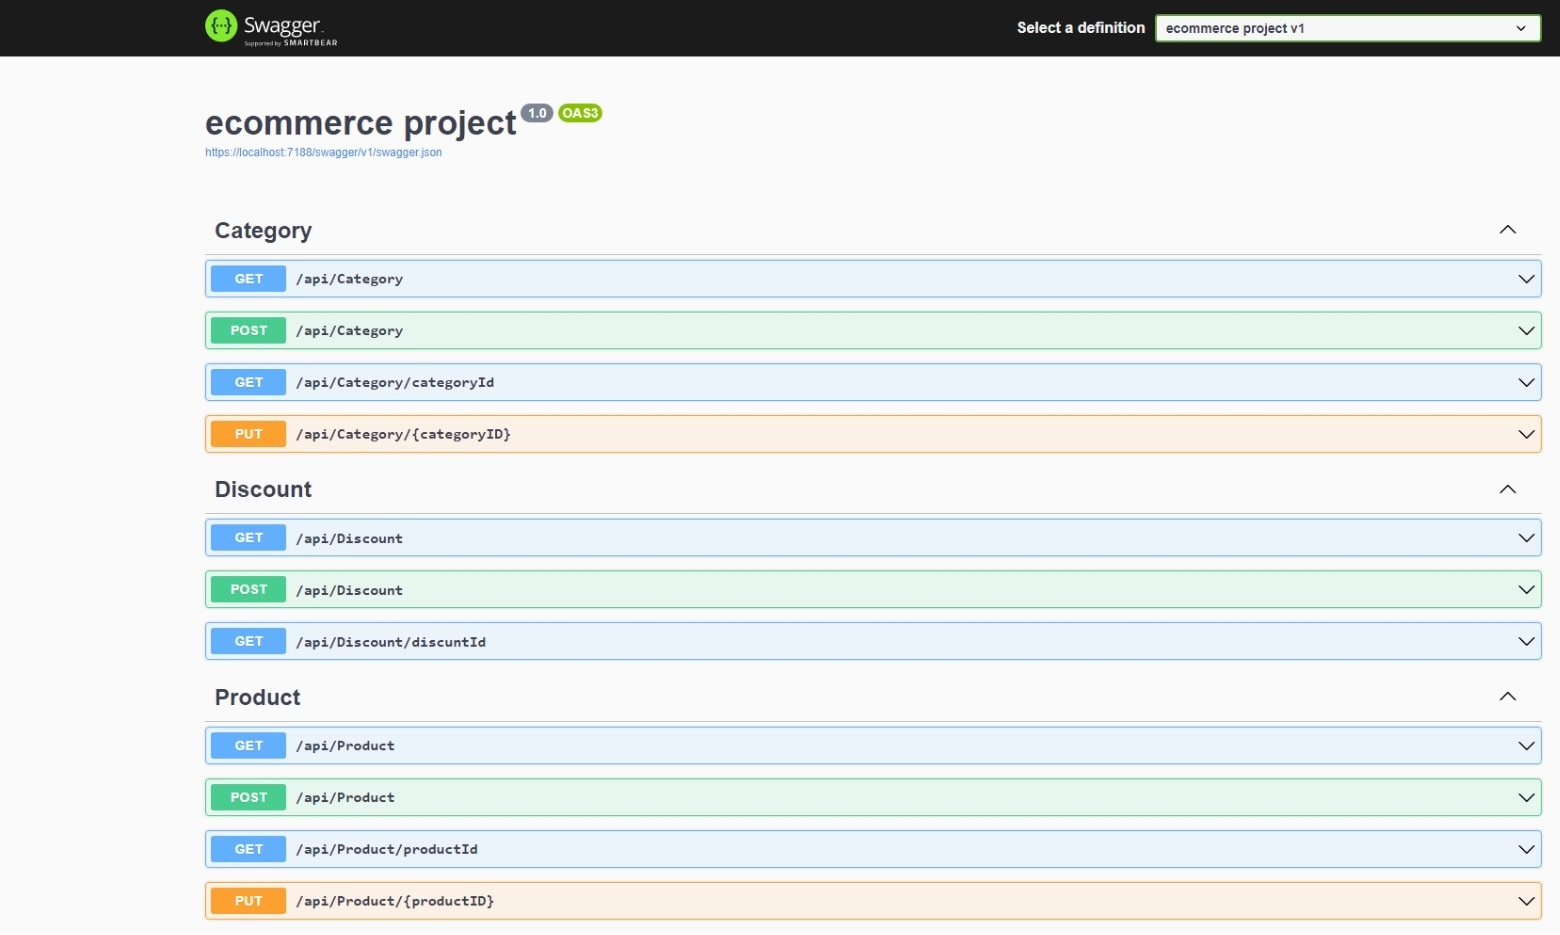
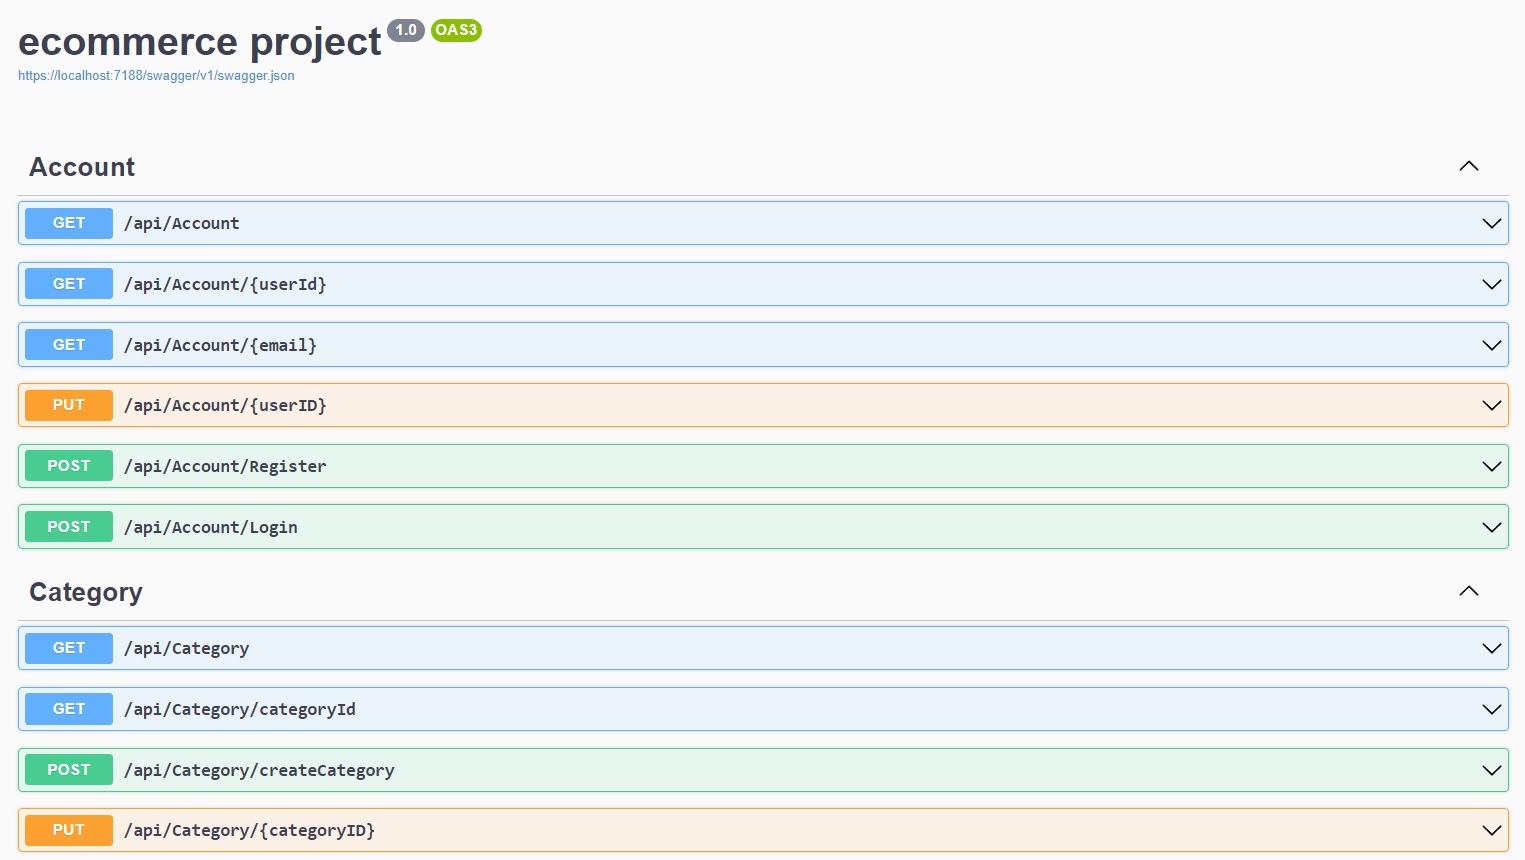
clean up the program.cs and exchange the image to new one

Changed region(s): [[0.0, 0.1814, 1.0, 0.9977], [0.0, 0.0, 1.0, 0.0907], [0.1233, 0.0907, 0.4007, 0.1814]]

diff --git a/ecommerce project/Program.cs b/ecommerce project/Program.cs
@@ -1,98 +1,17 @@
-using ecommerce_project.Data;
-using ecommerce_project.Interface;
-using ecommerce_project.Repository;
-using Microsoft.AspNetCore.Mvc;
-using Microsoft.AspNetCore.Mvc.Infrastructure;
-using Microsoft.EntityFrameworkCore;
-using System.Reflection;
+using ecommerce_project.Startup;
 
 var builder = WebApplication.CreateBuilder(args);
 
-// Add services to the container.
+builder.Services.AddControllersConfig()
+                 .RegisterScoped()
+                 .RegisterMapper()
+                 .RegisterServices();
 
-builder.Services.AddControllers()
-    .AddXmlDataContractSerializerFormatters()
-    // To castumaize the ModelState and add some info
-    .ConfigureApiBehaviorOptions(setupAction =>
-    {
-        // It will execute when the ModelState invalid
-        setupAction.InvalidModelStateResponseFactory = context =>
-        {
-            //create a valisation problem details object
-            ProblemDetailsFactory problemDetailsFactory = context.HttpContext.RequestServices
-            .GetRequiredService<ProblemDetailsFactory>();
-
-            var VaildationProblemDetails = problemDetailsFactory
-            .CreateValidationProblemDetails(
-                context.HttpContext,
-                context.ModelState);
-
-            // add additional info not added by default
-            VaildationProblemDetails.Detail = "See the errors field for details.";
-            VaildationProblemDetails.Instance = context.HttpContext.Request.Path;
-
-            // report invalid model state responses as vaildation issues
-            VaildationProblemDetails.Type = "VaildationProblemDetails";
-            VaildationProblemDetails.Status = StatusCodes.Status422UnprocessableEntity;
-            VaildationProblemDetails.Title = "One or more validation errors occurred";
-
-            return new UnprocessableEntityObjectResult(
-                VaildationProblemDetails)
-            {
-                ContentTypes = { "application/problem+json" }
-            };
-        };
-    });
-builder.Services.AddScoped<IAccount, AccountRepository>();
-builder.Services.AddScoped<IProduct, ProductRepository>();
-builder.Services.AddScoped<ICategory, CategoryRepository>();
-builder.Services.AddScoped<IDiscount, DiscountRepository>();
-// Learn more about configuring Swagger/OpenAPI at https://aka.ms/aspnetcore/swashbuckle
-
-builder.Services.AddAutoMapper(AppDomain.CurrentDomain.GetAssemblies());
-
-builder.Services.AddEndpointsApiExplorer();
-
-builder.Services.AddSwaggerGen(setupAction =>
-{
-    var xmlCommentsFile = $"{Assembly.GetExecutingAssembly().GetName().Name}.xml";
-    var xmlCommentsFullPath = Path.Combine(AppContext.BaseDirectory, xmlCommentsFile);
-
-    setupAction.IncludeXmlComments(xmlCommentsFullPath);
-
-    //setupAction.AddSecurityDefinition("ecommrceAuth", new OpenApiSecurityScheme()
-    //{
-    //    Type = SecuritySchemeType.Http,
-    //    Scheme = "Bearer",
-    //    Description = "Input a valid token to access this api"
-    //});
-
-    //setupAction.AddSecurityRequirement(new OpenApiSecurityRequirement
-    //{
-    //    {
-    //    new OpenApiSecurityScheme
-    //    {
-    //        Reference = new OpenApiReference
-    //        {
-    //            Type = ReferenceType.SecurityScheme,
-    //            Id = "ecommrceAuth"}
-    //    },new List<string>() }
-    //});
-});
-
-builder.Services.AddDbContext<DatabaseContext>(optoins =>
-{
-    optoins.UseSqlServer(builder.Configuration.GetConnectionString("DefaultConnction"));
-});
+builder.Services.AddDBContext(builder.Configuration);
 
 var app = builder.Build();
 
-// Configure the HTTP request pipeline.
-if (app.Environment.IsDevelopment())
-{
-    app.UseSwagger();
-    app.UseSwaggerUI();
-}
+app.ConfigurSwagger();
 
 app.UseHttpsRedirection();
 

diff --git a/ecommerce project/Startup/DependencyInjectionSetup.cs b/ecommerce project/Startup/DependencyInjectionSetup.cs
@@ -1,0 +1,100 @@
+namespace ecommerce_project.Startup;
+
+using ecommerce_project.Interface;
+using ecommerce_project.Repository;
+using Microsoft.AspNetCore.Mvc;
+using Microsoft.AspNetCore.Mvc.Infrastructure;
+using System.Reflection;
+
+public static class DependencyInjectionSetup
+{
+    public static IServiceCollection RegisterServices(this IServiceCollection services)
+    {
+
+        services.AddEndpointsApiExplorer();
+
+        services.AddSwaggerGen(setupAction =>
+        {
+            var xmlCommentsFile = $"{Assembly.GetExecutingAssembly().GetName().Name}.xml";
+            var xmlCommentsFullPath = Path.Combine(AppContext.BaseDirectory, xmlCommentsFile);
+
+            setupAction.IncludeXmlComments(xmlCommentsFullPath);
+
+            //setupAction.AddSecurityDefinition("ecommrceAuth", new OpenApiSecurityScheme()
+            //{
+            //    Type = SecuritySchemeType.Http,
+            //    Scheme = "Bearer",
+            //    Description = "Input a valid token to access this api"
+            //});
+
+            //setupAction.AddSecurityRequirement(new OpenApiSecurityRequirement
+            //{
+            //    {
+            //    new OpenApiSecurityScheme
+            //    {
+            //        Reference = new OpenApiReference
+            //        {
+            //            Type = ReferenceType.SecurityScheme,
+            //            Id = "ecommrceAuth"}
+            //    },new List<string>() }
+            //});
+        });
+        return services;
+    }
+    public static IServiceCollection RegisterScoped(this IServiceCollection services)
+    {
+
+        services.AddScoped<IAccount, AccountRepository>();
+        services.AddScoped<IProduct, ProductRepository>();
+        services.AddScoped<ICategory, CategoryRepository>();
+        services.AddScoped<IDiscount, DiscountRepository>();
+
+        return services;
+    }
+
+    public static IServiceCollection RegisterMapper(this IServiceCollection services)
+    {
+        services.AddAutoMapper(AppDomain.CurrentDomain.GetAssemblies());
+        return services;
+    }
+
+    public static IServiceCollection AddControllersConfig(this IServiceCollection services)
+    {
+        // Add services to the container.
+        services.AddControllers()
+    .AddXmlDataContractSerializerFormatters()
+    // To castumaize the ModelState and add some info
+    .ConfigureApiBehaviorOptions(setupAction =>
+    {
+        // It will execute when the ModelState invalid
+        setupAction.InvalidModelStateResponseFactory = context =>
+        {
+            //create a valisation problem details object
+            ProblemDetailsFactory problemDetailsFactory = context.HttpContext.RequestServices
+            .GetRequiredService<ProblemDetailsFactory>();
+
+            var VaildationProblemDetails = problemDetailsFactory
+            .CreateValidationProblemDetails(
+                context.HttpContext,
+                context.ModelState);
+
+            // add additional info not added by default
+            VaildationProblemDetails.Detail = "See the errors field for details.";
+            VaildationProblemDetails.Instance = context.HttpContext.Request.Path;
+
+            // report invalid model state responses as vaildation issues
+            VaildationProblemDetails.Type = "VaildationProblemDetails";
+            VaildationProblemDetails.Status = StatusCodes.Status422UnprocessableEntity;
+            VaildationProblemDetails.Title = "One or more validation errors occurred";
+
+            return new UnprocessableEntityObjectResult(
+                VaildationProblemDetails)
+            {
+                ContentTypes = { "application/problem+json" }
+            };
+        };
+    });
+
+        return services;
+    }
+}

diff --git a/ecommerce project/Startup/DbConfiguration.cs b/ecommerce project/Startup/DbConfiguration.cs
@@ -1,0 +1,18 @@
+using ecommerce_project.Data;
+using Microsoft.EntityFrameworkCore;
+
+namespace ecommerce_project.Startup;
+
+public static class DbConfiguration
+{
+
+    public static IServiceCollection AddDBContext(this IServiceCollection app,IConfiguration config)
+    {
+        app.AddDbContext<DatabaseContext>(optoins =>
+        {
+            optoins.UseSqlServer(config.GetConnectionString("DefaultConnction"));
+        });
+
+        return app;
+    }
+}

diff --git a/ecommerce project/Startup/SwaggerConfiguration.cs b/ecommerce project/Startup/SwaggerConfiguration.cs
@@ -1,0 +1,16 @@
+namespace ecommerce_project.Startup;
+
+public static class SwaggerConfiguration
+{
+    public static WebApplication ConfigurSwagger(this WebApplication app)
+    {
+        // Configure the HTTP request pipeline.
+        if (app.Environment.IsDevelopment())
+        {
+            app.UseSwagger();
+            app.UseSwaggerUI();
+        }
+
+        return app;
+    }
+}

diff --git a/ecommerce project/Controllers/TokenController.cs b/ecommerce project/Controllers/TokenController.cs
@@ -1,7 +1,4 @@
-using ecommerce_project.Dto;
-using ecommerce_project.Repository;
-using Microsoft.AspNet.Identity;
-using Microsoft.AspNetCore.Identity;
+using ecommerce_project.Repository;
 using Microsoft.AspNetCore.Mvc;
 
 namespace ecommerce_project.Controllers;
